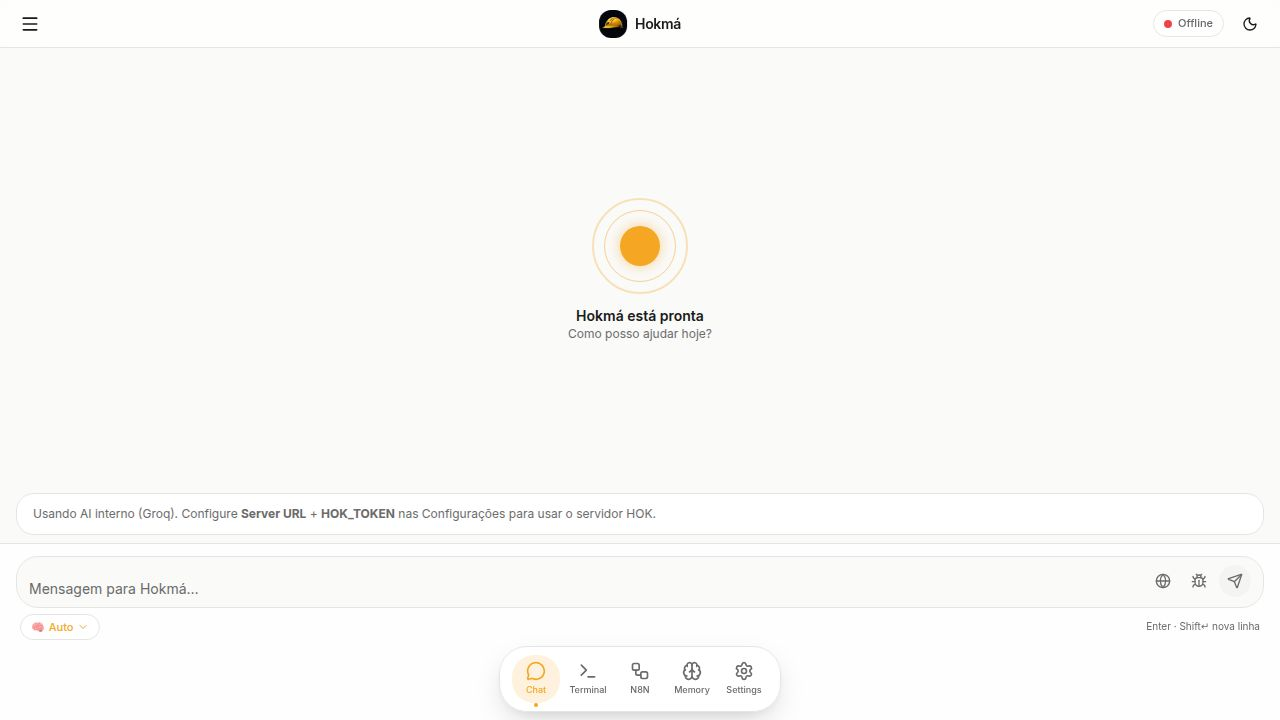
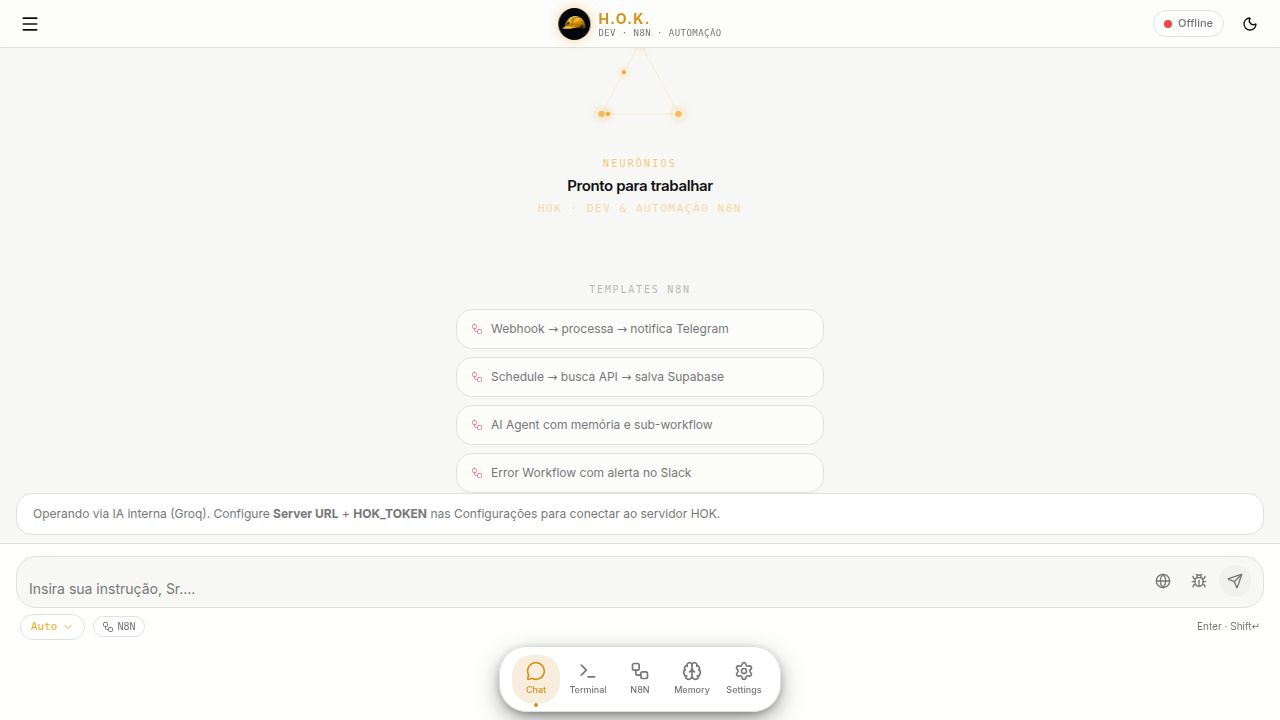
Update visual design and add automation workflow templates
Replace the existing visual animation with a minimalist three-neuron design and introduce clickable N8N workflow templates for quick automation setup.

Replit-Commit-Author: Agent
Replit-Commit-Session-Id: 51db9ec7-16ce-40f6-afe9-649932f4fb24
Replit-Commit-Checkpoint-Type: full_checkpoint
Replit-Commit-Event-Id: 488d80f6-b2ed-4c64-80c1-ab4e2cce7170
Replit-Commit-Screenshot-Url: https://storage.googleapis.com/screenshot-production-us-central1/6725270e-0ec7-4f20-9644-4d9ae2854bf1/51db9ec7-16ce-40f6-afe9-649932f4fb24/57vLU43
Replit-Helium-Checkpoint-Created: true

diff --git a/artifacts/hok-os/src/components/chat/NuclearCore.tsx b/artifacts/hok-os/src/components/chat/NuclearCore.tsx
@@ -1,101 +1,139 @@
 "use client";
 import { motion } from "framer-motion";
-import logo from "@/assets/hok-logo.png";
+
+const AMBER = "#F5A623";
+const DIM = "rgba(245,166,35,0.18)";
+
+// 3 neuron positions (equilateral triangle, centered in 120×120 viewBox)
+const NEURONS = [
+  { cx: 60, cy: 18 },   // top
+  { cx: 18, cy: 96 },   // bottom-left
+  { cx: 102, cy: 96 },  // bottom-right
+];
+
+// Connections between neurons
+const EDGES = [
+  { from: 0, to: 1 },
+  { from: 1, to: 2 },
+  { from: 2, to: 0 },
+];
+
+// Animated pulse along an SVG line
+function Pulse({ x1, y1, x2, y2, delay }: { x1: number; y1: number; x2: number; y2: number; delay: number }) {
+  return (
+    <motion.circle
+      r={2.2}
+      fill={AMBER}
+      style={{ filter: `drop-shadow(0 0 4px ${AMBER})` }}
+      initial={{ offsetDistance: "0%" }}
+      animate={{ offsetDistance: ["0%", "100%"] }}
+      transition={{ duration: 1.6, repeat: Infinity, delay, ease: "easeInOut" }}
+      // SVG motion path hack: use attrX/attrY with custom keyframes
+    >
+      <animateMotion
+        dur="1.8s"
+        repeatCount="indefinite"
+        begin={`${delay}s`}
+        path={`M ${x1} ${y1} L ${x2} ${y2}`}
+      />
+    </motion.circle>
+  );
+}
+
+function NeuronDot({ cx, cy, delay }: { cx: number; cy: number; delay: number }) {
+  return (
+    <>
+      {/* outer glow ring */}
+      <motion.circle
+        cx={cx} cy={cy} r={8}
+        fill="none"
+        stroke={AMBER}
+        strokeWidth={0.8}
+        initial={{ opacity: 0.2, scale: 1 }}
+        animate={{ opacity: [0.15, 0.45, 0.15], scale: [1, 1.35, 1] }}
+        transition={{ duration: 2.4, repeat: Infinity, delay, ease: "easeInOut" }}
+        style={{ transformOrigin: `${cx}px ${cy}px` }}
+      />
+      {/* core dot */}
+      <motion.circle
+        cx={cx} cy={cy} r={3.5}
+        fill={AMBER}
+        animate={{ opacity: [0.7, 1, 0.7] }}
+        transition={{ duration: 2.4, repeat: Infinity, delay, ease: "easeInOut" }}
+        style={{ filter: `drop-shadow(0 0 6px ${AMBER})` }}
+      />
+    </>
+  );
+}
 
 export function NuclearCore() {
   return (
-    <div className="flex flex-col items-center justify-center gap-6 py-10 select-none">
+    <div className="flex flex-col items-center justify-center gap-5 py-10 select-none">
 
-      {/* ── Central logo com anéis animados ── */}
-      <div className="relative flex h-36 w-36 items-center justify-center">
-
-        {/* Anel externo — respira devagar */}
-        <motion.span
-          className="absolute inset-0 rounded-full"
-          style={{ border: "1px solid rgba(245,166,35,0.15)" }}
-          animate={{ scale: [1, 1.06, 1], opacity: [0.4, 0.7, 0.4] }}
-          transition={{ duration: 4, repeat: Infinity, ease: "easeInOut" }}
-        />
-
-        {/* Anel médio — rotação suave */}
-        <motion.span
-          className="absolute inset-4 rounded-full"
-          style={{
-            border: "1px dashed rgba(245,166,35,0.25)",
-          }}
-          animate={{ rotate: 360 }}
-          transition={{ duration: 18, repeat: Infinity, ease: "linear" }}
-        />
-
-        {/* Anel interno — rotação inversa */}
-        <motion.span
-          className="absolute inset-8 rounded-full"
-          style={{ border: "1.5px solid rgba(245,166,35,0.35)" }}
-          animate={{ rotate: -360 }}
-          transition={{ duration: 10, repeat: Infinity, ease: "linear" }}
-        />
-
-        {/* Ticks nos 4 cantos do anel médio */}
-        {[0, 90, 180, 270].map((deg) => (
-          <motion.span
-            key={deg}
-            className="absolute"
-            style={{
-              width: 6, height: 1.5,
-              background: "rgba(245,166,35,0.5)",
-              borderRadius: 2,
-              top: "50%", left: "50%",
-              transformOrigin: "-46px 0",
-              transform: `rotate(${deg}deg) translateY(-50%)`,
-            }}
-            animate={{ opacity: [0.3, 0.9, 0.3] }}
-            transition={{ duration: 2, repeat: Infinity, delay: deg / 360 * 2 }}
-          />
-        ))}
-
-        {/* Halo de glow por baixo do logo */}
-        <motion.span
-          className="absolute inset-10 rounded-full"
-          animate={{
-            boxShadow: [
-              "0 0 16px 4px rgba(245,166,35,0.12)",
-              "0 0 36px 12px rgba(245,166,35,0.28)",
-              "0 0 16px 4px rgba(245,166,35,0.12)",
-            ],
-          }}
-          transition={{ duration: 2.8, repeat: Infinity, ease: "easeInOut" }}
-        />
-
-        {/* Logo capacete — centro */}
-        <motion.img
-          src={logo}
-          alt="H.O.K."
-          className="relative z-10 h-16 w-16 rounded-2xl object-contain"
-          style={{
-            filter: "drop-shadow(0 4px 16px rgba(245,166,35,0.45))",
-          }}
-          initial={{ scale: 0.8, opacity: 0 }}
-          animate={{ scale: 1, opacity: 1 }}
-          transition={{ type: "spring", stiffness: 200, damping: 18, delay: 0.1 }}
-          whileHover={{ scale: 1.08, transition: { duration: 0.3 } }}
-        />
-      </div>
-
-      {/* ── Texto ── */}
+      {/* ── 3-neuron SVG ── */}
       <motion.div
-        className="text-center space-y-1.5"
+        initial={{ opacity: 0, scale: 0.88 }}
+        animate={{ opacity: 1, scale: 1 }}
+        transition={{ duration: 0.6, ease: "easeOut" }}
+      >
+        <svg
+          viewBox="0 0 120 120"
+          width={110}
+          height={110}
+          xmlns="http://www.w3.org/2000/svg"
+          style={{ overflow: "visible" }}
+        >
+          {/* ── Edges (static dim lines) ── */}
+          {EDGES.map((e, i) => {
+            const a = NEURONS[e.from];
+            const b = NEURONS[e.to];
+            return (
+              <line
+                key={i}
+                x1={a.cx} y1={a.cy}
+                x2={b.cx} y2={b.cy}
+                stroke={DIM}
+                strokeWidth={0.9}
+              />
+            );
+          })}
+
+          {/* ── Animated pulses along edges ── */}
+          {EDGES.map((e, i) => {
+            const a = NEURONS[e.from];
+            const b = NEURONS[e.to];
+            return (
+              <Pulse
+                key={i}
+                x1={a.cx} y1={a.cy}
+                x2={b.cx} y2={b.cy}
+                delay={i * 0.6}
+              />
+            );
+          })}
+
+          {/* ── Neuron dots ── */}
+          {NEURONS.map((n, i) => (
+            <NeuronDot key={i} cx={n.cx} cy={n.cy} delay={i * 0.4} />
+          ))}
+        </svg>
+      </motion.div>
+
+      {/* ── Label ── */}
+      <motion.div
+        className="text-center space-y-1"
         initial={{ opacity: 0, y: 8 }}
         animate={{ opacity: 1, y: 0 }}
-        transition={{ delay: 0.3, duration: 0.5 }}
+        transition={{ delay: 0.35, duration: 0.5 }}
       >
+        <p className="text-[10px] font-mono uppercase tracking-[0.22em]" style={{ color: `${AMBER}99` }}>
+          neurônios
+        </p>
         <p className="text-[15px] font-semibold tracking-tight text-foreground">
           Pronto para trabalhar
         </p>
-        <p className="text-[10px] font-mono uppercase tracking-[0.16em] text-[color:var(--amber)]/70">
-          HOK · Dev &amp; Automação N8N
-        </p>
-        <p className="text-[12px] text-muted-foreground">
-          Como posso ajudar com seu projeto?
+        <p className="text-[11px] font-mono uppercase tracking-[0.14em]" style={{ color: `${AMBER}66` }}>
+          HOK · DEV &amp; AUTOMAÇÃO N8N
         </p>
       </motion.div>
 

diff --git a/artifacts/hok-os/src/components/screens/ChatScreen.tsx b/artifacts/hok-os/src/components/screens/ChatScreen.tsx
@@ -318,8 +318,49 @@ export function ChatScreen() {
       {/* ── Messages ── */}
       <div className="thin-scroll flex-1 overflow-y-auto px-4 py-4">
         {messages.length === 0 && !loading && (
-          <div className="flex h-full items-center justify-center">
+          <div className="flex h-full flex-col items-center justify-center gap-6">
             <NuclearCore />
+
+            {/* ── N8N quick templates ── */}
+            <motion.div
+              className="w-full max-w-sm space-y-2 px-2"
+              initial={{ opacity: 0, y: 10 }}
+              animate={{ opacity: 1, y: 0 }}
+              transition={{ delay: 0.55, duration: 0.45 }}
+            >
+              <p className="text-center text-[10px] font-mono uppercase tracking-[0.18em] text-muted-foreground/50 mb-3">
+                templates N8N
+              </p>
+              {[
+                {
+                  label: "Webhook → processa → notifica Telegram",
+                  prompt: "Crie um workflow N8N que recebe dados via Webhook, processa o payload com um Code Node e envia uma notificação formatada no Telegram.",
+                },
+                {
+                  label: "Schedule → busca API → salva Supabase",
+                  prompt: "Crie um workflow N8N com trigger Schedule (cron diário), que faz uma requisição HTTP para uma API externa e salva os resultados no Supabase via HTTP Request Node.",
+                },
+                {
+                  label: "AI Agent com memória e sub-workflow",
+                  prompt: "Explique como montar um AI Agent no N8N com memória de conversação, usando o nó AI Agent + sub-workflow para delegar tarefas específicas.",
+                },
+                {
+                  label: "Error Workflow com alerta no Slack",
+                  prompt: "Como configurar um Error Workflow no N8N que captura falhas de qualquer workflow e envia um alerta detalhado no Slack com nome do workflow, erro e timestamp?",
+                },
+              ].map((t) => (
+                <button
+                  key={t.label}
+                  onClick={() => { setInput(t.prompt); setN8nMode("manual"); setTimeout(() => taRef.current?.focus(), 50); }}
+                  className="group w-full rounded-xl border border-border bg-card/60 px-3.5 py-2.5 text-left text-[12px] text-muted-foreground transition-all hover:border-rose-500/30 hover:bg-card hover:text-foreground"
+                >
+                  <span className="flex items-center gap-2">
+                    <Workflow className="h-3 w-3 shrink-0 text-rose-500/50 group-hover:text-rose-500 transition-colors" />
+                    {t.label}
+                  </span>
+                </button>
+              ))}
+            </motion.div>
           </div>
         )}
 
